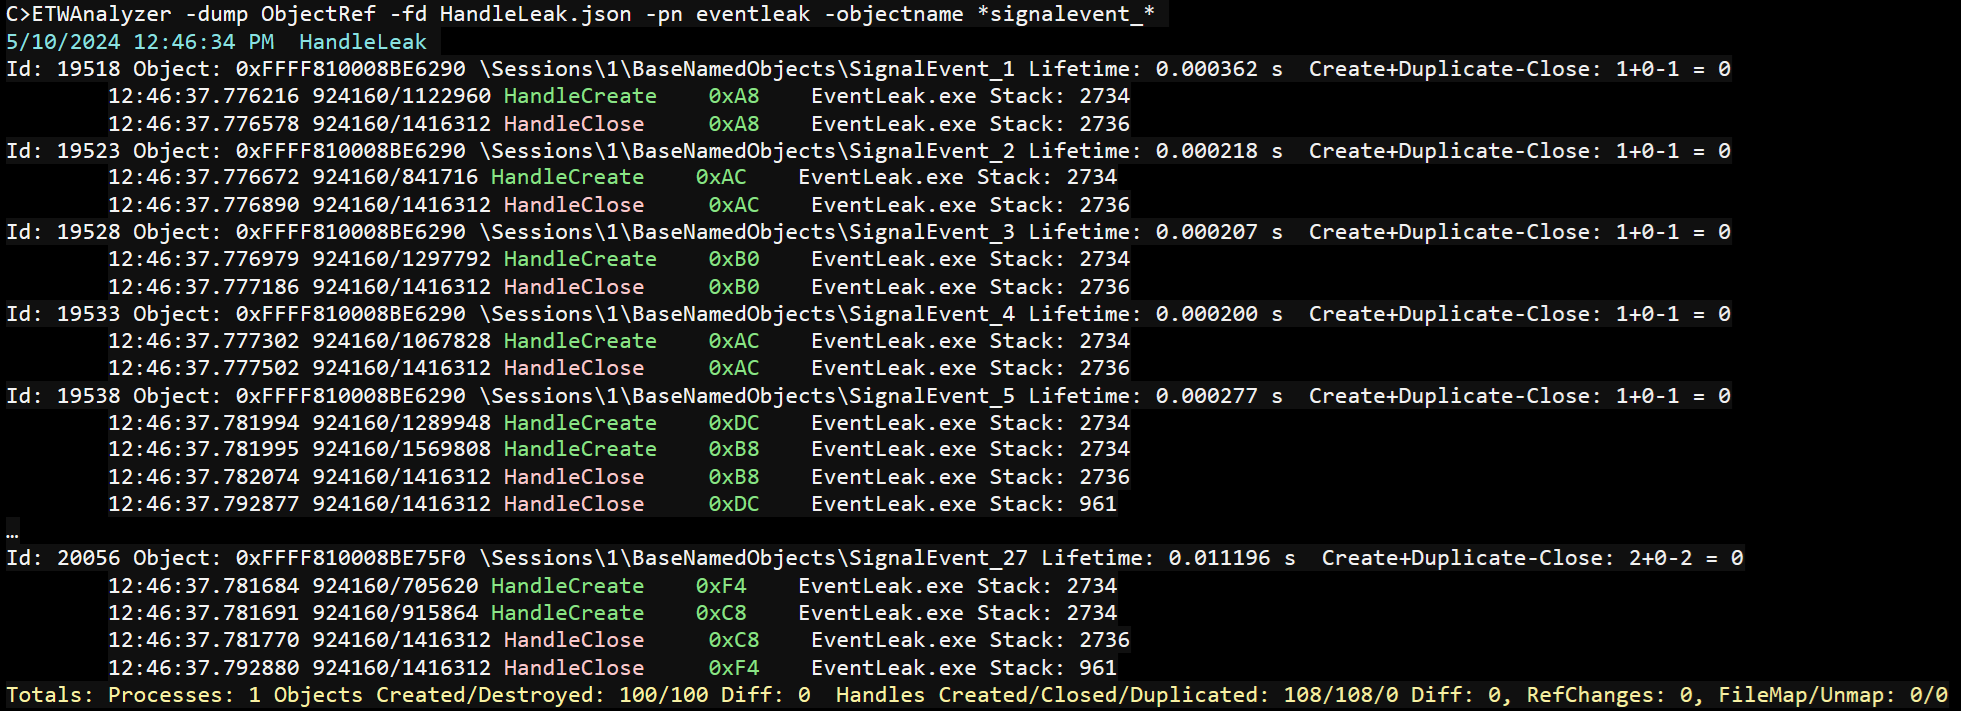
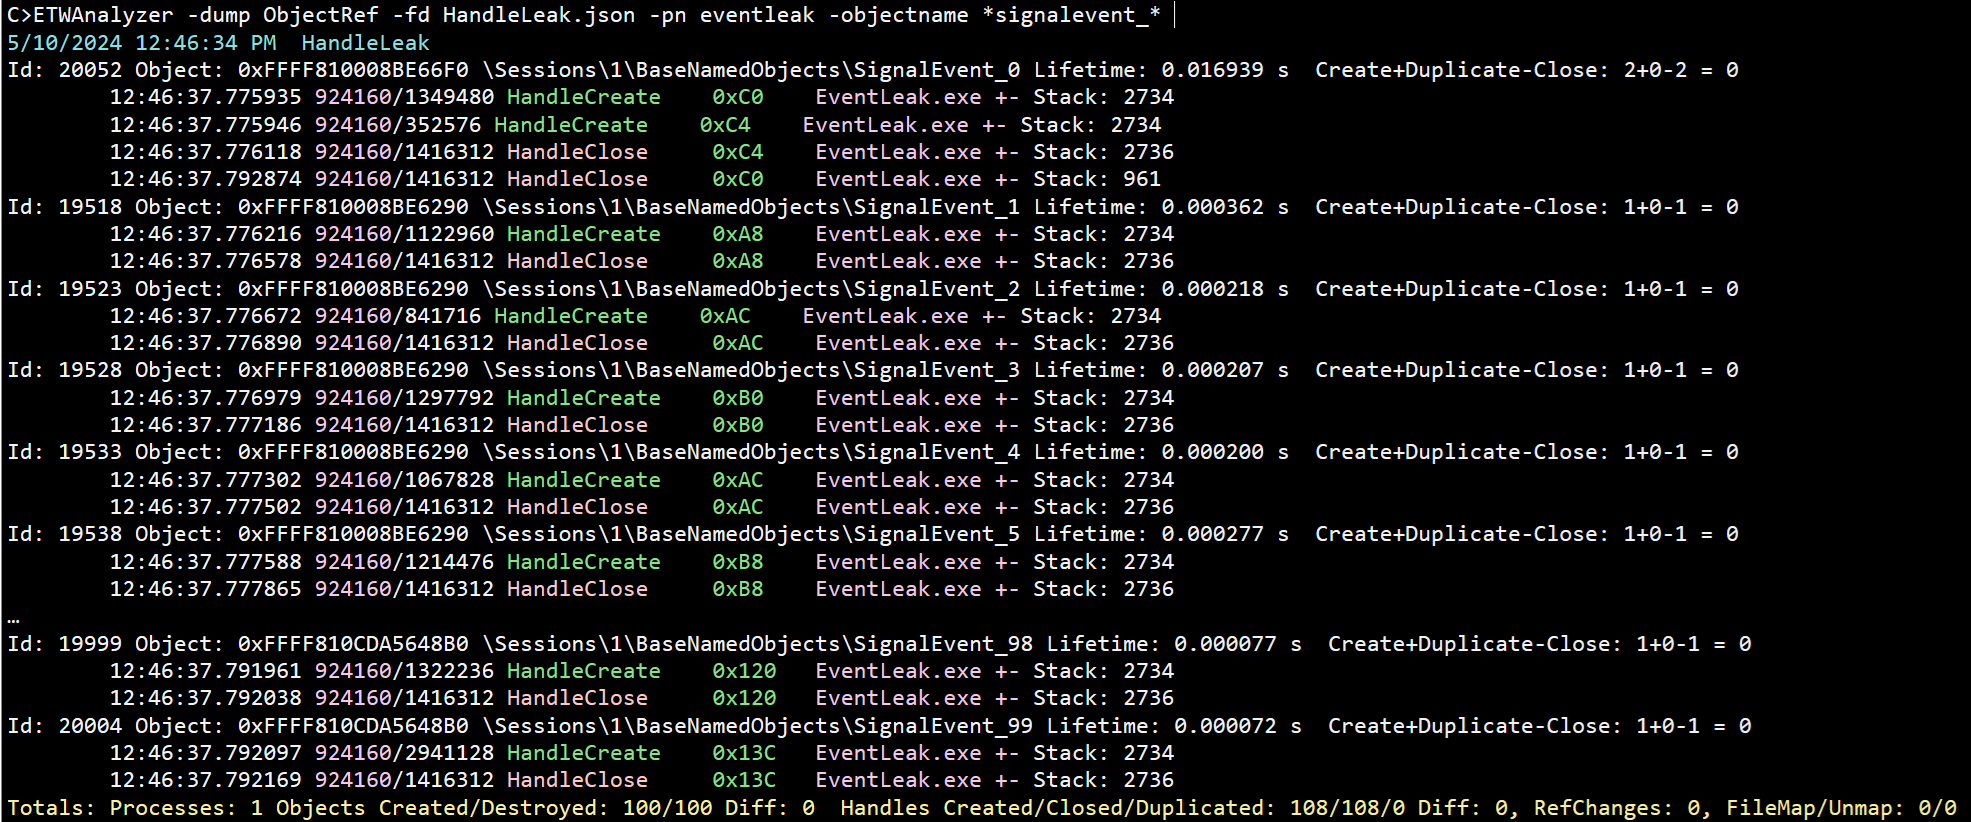
Updated DumpObjectRef Help and pictures. Added section about inherited handles.

Changed region(s): [[0.0, 0.0, 0.9021, 0.7426], [0.0, 0.7736, 0.9954, 1.0], [0.6843, 0.6188, 0.8088, 0.6807]]

diff --git a/ETWAnalyzer/Documentation/DumpObjectRefCommand.md b/ETWAnalyzer/Documentation/DumpObjectRefCommand.md
@@ -13,7 +13,7 @@ or you can use ```All``` instead of ```ObjectRef``` which will include it.
 ## Data Analysis
 To dump all objects which were created by process EventLeak which are named objects which have the string signalevent_ in their name you can use:
 
->ETWAnalyzer -dump ObjectRef  %f% -pn EventLeak -ObjectName \*signalevent_\* 
+>ETWAnalyzer -dump ObjectRef -fd HandleLeak.json -pn EventLeak -ObjectName \*signalevent_\* 
 ![](Images/DumpObjectRef_Filter.png "Dump Handles")
 
 The summary shows that 100 kernel objects were created and destroyed. That is expected since the loop did run from 0-99 to create the event handles. But for some
@@ -30,7 +30,9 @@ Then the individual events grouped by type sorted by time are printed. Each line
  - Thread Id
  - Event Name
  - Handle Value (can be filtered with ```-Handle``` filter)
- - Process Name (can be filtered for creating process with ```-processname or -pn``` for. To filter inside any event use ```-RelatedProcess```)
+ - Process Name (can be filtered for creating process with ```-processname or -pn```. To filter inside any event use ```-RelatedProcess```)
+   If present, the +- signs indicate that the process did start/exit during the trace recording. You can print with ```-ProcessFmt s``` the start/stop/duration in WPA time or  ```None``` to omit even the +- markers.
+   See [Dump Process section -TimeFmt](DumpProcessCommand.md) for more information.
  - Stack id (```-ShowStack``` will print the stack to console, or write it to CSV file if output is exported via ```-csv``` option)
 
 
@@ -64,6 +66,50 @@ When you are searching for all occurrences of event allocations done by a specif
 stack with ```-StackFilter```. These things are more complex to perform in WPA. 
 ![](Images/WPA_HandleLeak.png "WPA Handle Leak")
 
+### Inherited Handles
+When a new child process is started all inheritable handles are cloned into the new process. That happens inside the parent process in the method **ExDuplicateSingleHandle** while CreateProcess
+is running inside the kernel. 
+```
+ExpDuplicateSingleHandle
+ExDupHandleTable
+ObInitProcess
+PspAllocateProcess
+NtCreateUserProcess
+KiSystemServiceCopyEnd
+ZwCreateUserProcess
+CreateProcessInternalW
+CreateProcessW
+```
+The inherited handles result in DuplicateHandle ETW events which have as source and target process the same process id and the same handle value as in the
+parent process. This information can be used as unique marker to detect child process starts which ETWAnalyzer uses to correlate the started child processes which 
+did inherit handles from the parent process. You can filter for inherited handles with the ```-Inherit``` option.
+>ETWAnalyzer -dump ObjectRef  -fd HandleLeak.json -Inherit -RelatedProcess Eventleak
+>![](Images/DumpObjectRef_Inherit.png "Dump Inherited Handles")
+
+
+In the output we find two inherited file handles \Device\ConDrv used to communicate with the conhost which does the actual printing when you print to console. 
+Are by default all handles inherited by a child process? No. Only the handles which are created with a SECURITY_ATTRIBUTES structure which has bInheritHandle set to TRUE.
+```
+    SECURITY_ATTRIBUTES sa;
+    ...
+    sa.bInheritHandle = TRUE;
+    CreateEvent(&sa, ...)
+```
+
+If you need to create child processes which do not inherit inheritable handles you can set during CreateProcess the flag ```BOOL bInheritHandles``` to FALSE which is 
+the 5th parameter to CreateProcess.
+```
+	STARTUPINFO si;
+	PROCESS_INFORMATION pi;
+
+	ZeroMemory(&si, sizeof(si));
+	si.cb = sizeof(si);
+	ZeroMemory(&pi, sizeof(pi));
+
+	CreateProcess(NULL, (LPWSTR) argString.c_str(), NULL, NULL, FALSE, 0, NULL, NULL, &si, &pi);
+```
+There are more options, like to pass a specific handle list to the child process 
+[Programmatically controlling which handles are inherited by new processes in Win32](https://devblogs.microsoft.com/oldnewthing/20111216-00/?p=8873) which is a bit more complex.
 ### File Mapping Events
 
 When you dump object data you can also exclusively dump file mapping events with ```-Map 1``` to only show file mapping events. 

diff --git a/ETWAnalyzer/Documentation/DumpProcessCommand.md b/ETWAnalyzer/Documentation/DumpProcessCommand.md
@@ -43,6 +43,7 @@ Supported values for *-TimeFmt* are:
 | UTCTime| Same as UTC but without date string. |
 | Here|  Print time as local time in the current system time zone.|
 | HereTime|  Same as Here but without date string. |
+| None    | Skip printing of time. Used by ```-ProcessFmt``` option. |
 
 **Examples**
 
